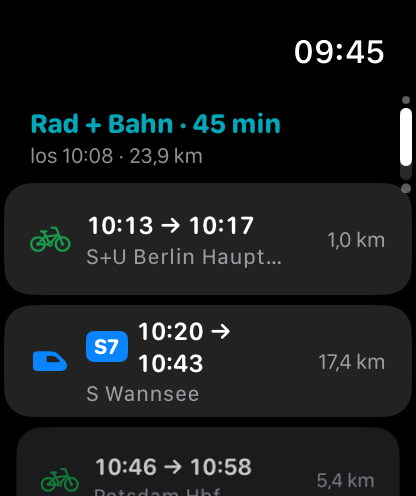
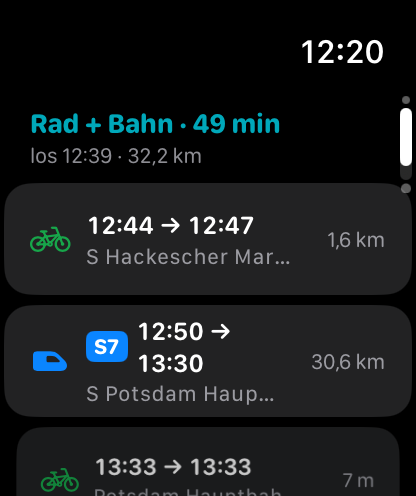
Store: iPhone-Satz für den 6,1″/6,3″-Schacht (1206 × 2622), Uhr-Bilder neu
Claude-Session: https://claude.ai/code/session_01W7X6DqDkarXtPKmRV2Q2C8

diff --git a/RadPendlerUITests/ScreenshotTests.swift b/RadPendlerUITests/ScreenshotTests.swift
@@ -5,8 +5,9 @@ import XCTest
 /// scheme (`RadPendlerShots`), because it needs the network and takes minutes.
 ///
 /// The frames come out at the simulator's native size, so the device decides
-/// the App Store slot: a 6.5" phone gives 1284 × 2778, an iPad Pro 13" gives
-/// 2064 × 2752. Anything else is rejected on upload.
+/// the App Store slot: an iPhone 17 gives 1206 × 2622 (slot 6.1"/6.3"), a 6.5"
+/// phone 1284 × 2778, an iPad Pro 13" 2064 × 2752. A size that does not match
+/// its slot is rejected on upload.
 final class ScreenshotTests: XCTestCase {
     private var app: XCUIApplication!
     private var shot = 0

diff --git a/tools/store_package.py b/tools/store_package.py
@@ -14,7 +14,7 @@ from pathlib import Path
 ROOT = Path(__file__).resolve().parent.parent
 META = (ROOT / "appstore/metadata.md").read_text(encoding="utf-8")
 LIMITS = {"name": 30, "untertitel": 30, "werbetext": 170, "beschreibung": 4000, "keywords": 100, "was-ist-neu": 4000}
-SHOTS = {"iphone-6.5": (1284, 2778), "ipad-13": (2064, 2752), "watch-46": (416, 496)}
+SHOTS = {"iphone-6.3": (1206, 2622), "iphone-6.5": (1284, 2778), "ipad-13": (2064, 2752), "watch-46": (416, 496)}
 
 
 def setting(key):
@@ -120,8 +120,11 @@ ist eine Datei zum Kopieren, die Bilder liegen in der Reihenfolge ihrer Dateinum
 1. Neue Version **{version}** anlegen, Build **{build}** auswählen.
 2. Je Sprache (Deutsch, Englisch USA): Werbetext, Beschreibung, Keywords und „Neue Funktionen“
    aus `de/` bzw. `en/` einfügen. Name und Untertitel nur, wenn sie sich geändert haben.
-3. Screenshots: die alten im Schacht löschen, dann `screenshots/iphone-6.5/` in den 6,5″-Schacht,
+3. Screenshots: die alten im Schacht löschen, dann `screenshots/iphone-6.3/` (1206 × 2622) in den
+   Schacht „iPhone 6,1″ oder 6,3″“ — bietet App Store Connect stattdessen 6,5″ an, dorthin
+   `screenshots/iphone-6.5/` (1284 × 2778). Ein Satz genügt, die Größe muss zum Schacht passen.
    `screenshots/ipad-13/` in den 13″-Schacht, `screenshots/watch-46/` zur Apple Watch.
+   Bilder für das iPhone Duo sind erst für Einreichungen ab April 2027 Pflicht.
 4. „Kopfzeile und Suchergebnisse“ leer lassen — freiwillige Werbeflächen.
 5. App-Prüfung → Notizen: den Text aus `pruefhinweis-en.txt`.
 6. Support-URL {urls['Support-URL']} · Marketing-URL {urls['Marketing-URL']} ·

diff --git a/appstore/metadata.md b/appstore/metadata.md
@@ -16,11 +16,14 @@ Was seit der 1.8.1-Liste dazugekommen ist; alles andere gilt wie dort. Im Store 
 1.14 bis 1.17 waren nur TestFlight.
 
 1. **Build 1.18 (58)** auswählen — liegt seit dem 10.10.2026 in TestFlight.
-2. **Screenshots neu aufgenommen am 10.10.2026 mit Build 58**: `screenshots/iphone-6.5/`
-   (8 Bilder, 1284 × 2778) und `screenshots/ipad-13/` (7 Bilder, 2064 × 2752), in der Reihenfolge
-   der Dateinummern. Unter dem Rad-Kasten stehen vier Wege, die Radroute zeigt ihre Ampeln. Die
-   Uhr-Bilder (`screenshots/watch-46/`) sind unverändert. Die alten Bilder im Schacht vorher
-   löschen — App Store Connect hängt neue sonst hinten an.
+2. **Screenshots neu aufgenommen am 10.10.2026 mit Build 58**, in der Reihenfolge der
+   Dateinummern: `screenshots/iphone-6.3/` (8 Bilder, 1206 × 2622) in den Schacht „iPhone 6,1″
+   oder 6,3″“ — den zeigt App Store Connect inzwischen zuerst, und er lehnt den 6,5″-Satz ab.
+   `screenshots/iphone-6.5/` (8 Bilder, 1284 × 2778) nur, wenn der 6,5″-Schacht gefragt ist.
+   `screenshots/ipad-13/` (7 Bilder, 2064 × 2752), `screenshots/watch-46/` (4 Bilder, 416 × 496,
+   ebenfalls neu: vier Radwege, „optimal“ statt „ruhigst“). Die alten Bilder im Schacht vorher
+   löschen — App Store Connect hängt neue sonst hinten an. Bilder für das iPhone Duo sind erst
+   für Einreichungen ab April 2027 Pflicht.
 3. **Was ist neu** — Text unten, **für 1.18**, deutsch und englisch.
 4. **Beschreibung** deutsch und englisch: die Zeile „Fahrrad in vier Linien“ ersetzt die
    Aufzählung mit „wenig Autos“ und „wenig Halts“ — in beide Sprachen neu einfügen.
@@ -709,11 +712,17 @@ beiden Schächte annimmt, sind kurz; alles andere wird beim Hochladen abgelehnt:
 
 | Geräteklasse | Simulator | Größe | Ordner |
 |---|---|---|---|
+| iPhone 6,1″/6,3″ | iPhone 17 | 1206 × 2622 | `screenshots/iphone-6.3/` |
 | iPhone 6,5″ | DF-iphone65 (iPhone 13 Pro Max) | 1284 × 2778 | `screenshots/iphone-6.5/` |
 | iPad 13″ | iPad Pro 13-inch (M5) | 2064 × 2752 | `screenshots/ipad-13/` |
+| Apple Watch 46 mm | Apple Watch Series 11 (46mm) | 416 × 496 | `screenshots/watch-46/` |
 
-Ein 6,9″-Telefon (iPhone 17 Pro Max) nimmt mit 1320 × 2868 auf, und das steht
-**nicht** auf der Liste — der 6,5″-Satz muss aus einem 6,5″-Simulator kommen.
+Die Größe muss zum Schacht passen: der 6,5″-Satz im 6,1″/6,3″-Schacht wird abgelehnt
+(so geschehen am 10.10.2026) und umgekehrt. Ein Satz genügt.
+
+Die Uhr hat keinen UI-Test: Uhr-App im Simulator installieren, einen Plan des Telefons als
+`lastPlan` in ihre `defaults` schreiben, starten, `simctl io screenshot`. Für die Seiten hinter
+dem Countdown braucht es Wischen von Hand oder einen vorübergehenden Startschalter.
 
 Reihenfolge und der Bildtext, den jedes Bild tragen soll (Stand 10.10.2026,
 aufgenommen mit 1.18, Build 58):
